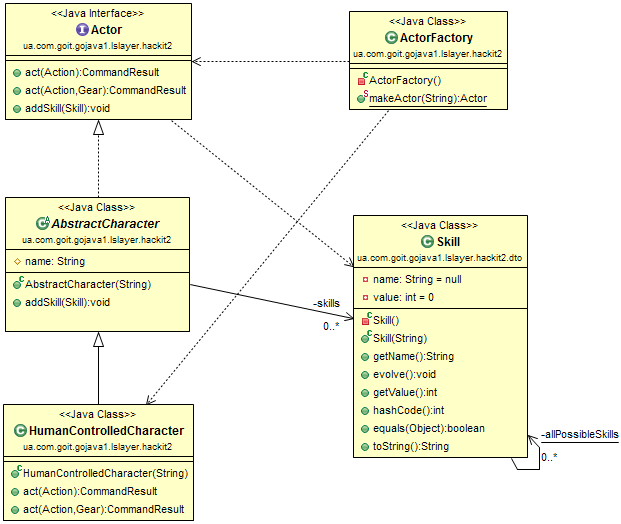
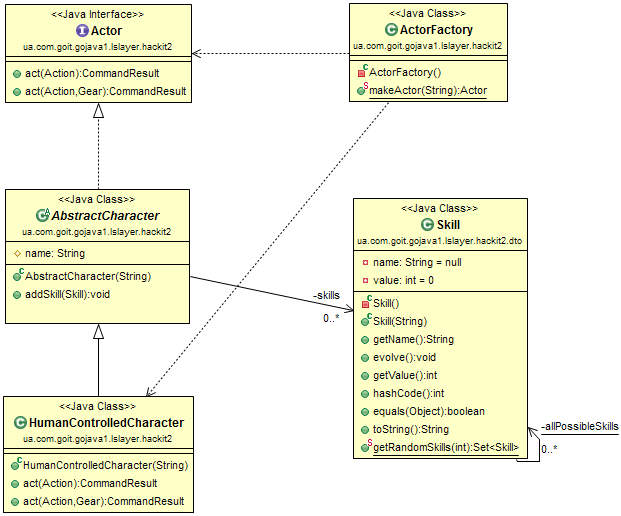
Nice test case. It blinks. Random is evil

diff --git a/GoJava1/viktor.gogilchyn/hackIt2/src/main/java/ua/com/goit/gojava1/lslayer/hackit2/dto/Skill.java b/GoJava1/viktor.gogilchyn/hackIt2/src/main/java/ua/com/goit/gojava1/lslayer/hackit2/dto/Skill.java
@@ -1,9 +1,9 @@
 package ua.com.goit.gojava1.lslayer.hackit2.dto;
 
 import java.util.HashSet;
+import java.util.Iterator;
+import java.util.Random;
 import java.util.Set;
-
-import ua.com.goit.gojava1.lslayer.hackit2.SkillDefaultValueException;
 
 public class Skill {
     private String name = null;
@@ -50,6 +50,22 @@ public class Skill {
     @Override
     public String toString() {
         return this.name + " - " + this.value;
+    }
+    
+    public static Set<Skill> getRandomSkills(int quantity) {
+        if (quantity < 0) return new HashSet<Skill>();
+        if (quantity < Skill.allPossibleSkills.size()) {
+            Set<Skill> returnSet = new HashSet<Skill>();
+            int index = new Random().nextInt(allPossibleSkills.size());
+            Iterator<Skill> iter = allPossibleSkills.iterator();
+            for (int i = 0; i < index; i++) {
+                iter.next();
+            }
+            returnSet.add(iter.next());
+            returnSet.addAll(Skill.getRandomSkills(quantity - returnSet.size()));
+            return returnSet;
+        }
+        return null;
     }
 
 }

diff --git a/GoJava1/viktor.gogilchyn/hackIt2/src/test/java/ua/com/goit/gojava1/lslayer/hackit2/SkillTest.java b/GoJava1/viktor.gogilchyn/hackIt2/src/test/java/ua/com/goit/gojava1/lslayer/hackit2/SkillTest.java
@@ -10,7 +10,7 @@ public class SkillTest {
     private Skill skill;
     @Test
     public void testSkillCreation() {
-        this.skill = new Skill("");
+        this.skill = new Skill("TestSkill");
         assertNotNull(skill);
     }
     @Test
@@ -30,10 +30,19 @@ public class SkillTest {
     }
     @Test
     public void testSkillEquals() {
-        Skill skillOne = new Skill("_");
-        Skill skillTwo = new Skill("_");
+        Skill skillOne = new Skill("TestSkill");
+        Skill skillTwo = new Skill("TestSkill");
         skillOne.evolve();
         assertTrue(skillOne.equals(skillTwo));
         assertNotEquals(skillOne.toString(), skillTwo.toString());
+    }
+    @Test
+    public void testRandomSkillReturn() {
+        Skill skillOne = new Skill("SkillOne");
+        Skill skillTwo = new Skill("SkillTwo");
+        Skill skillThree = new Skill("SkillTree");
+        Skill skillFour = new Skill("TestSkill");
+        assertEquals(3, Skill.getRandomSkills(3).size());
+        assertNull(Skill.getRandomSkills(9));
     }
 }
